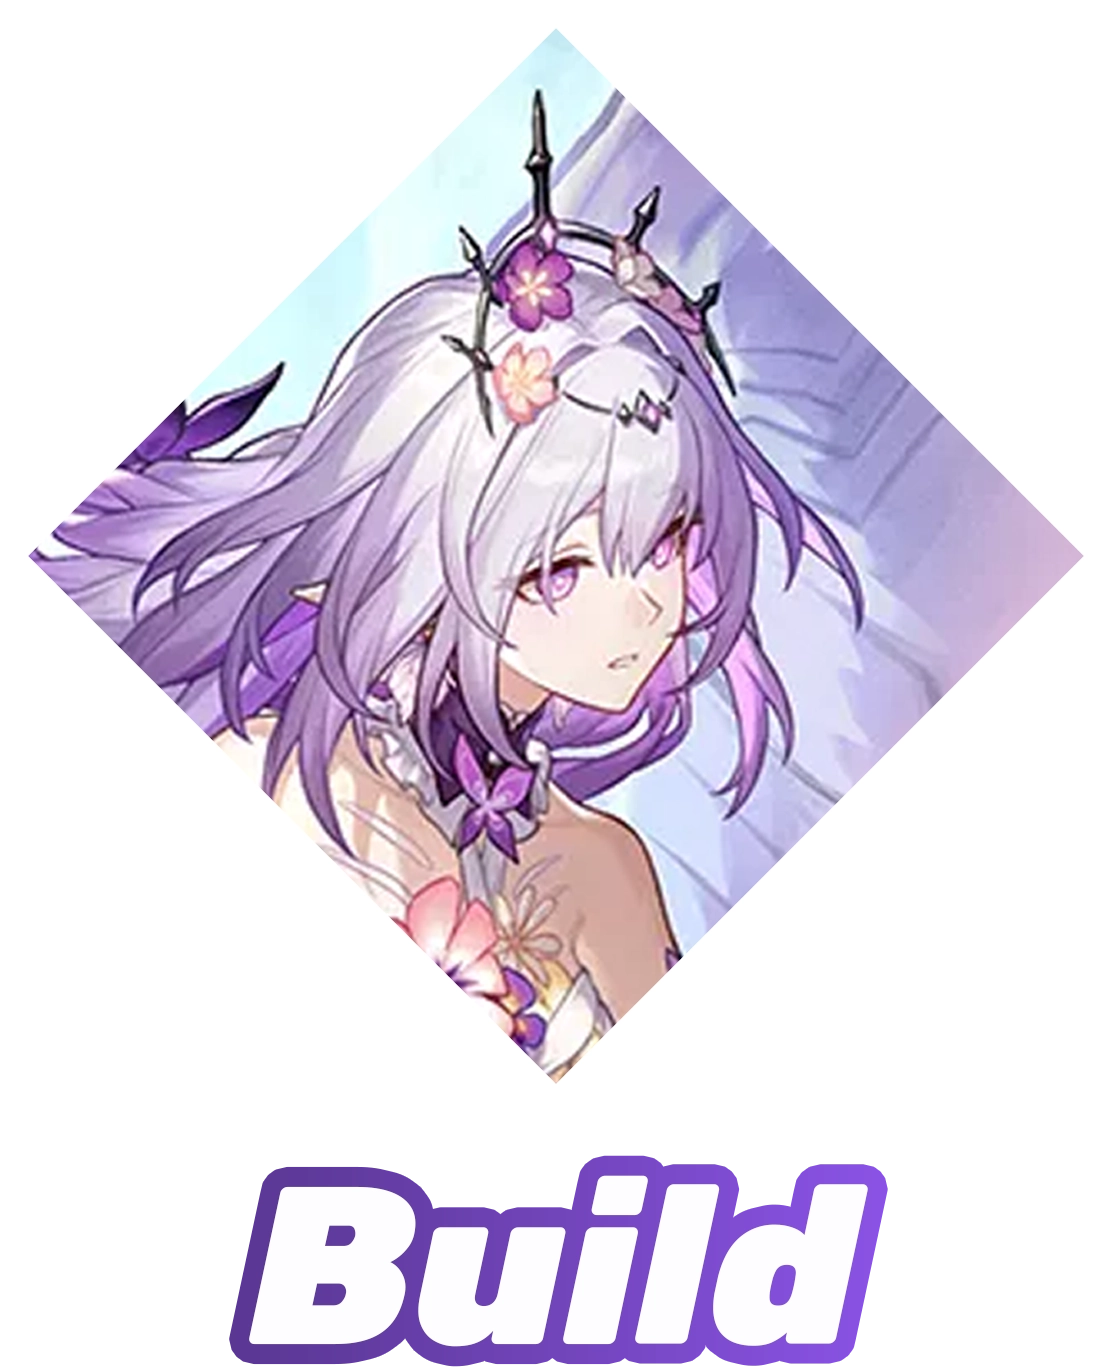
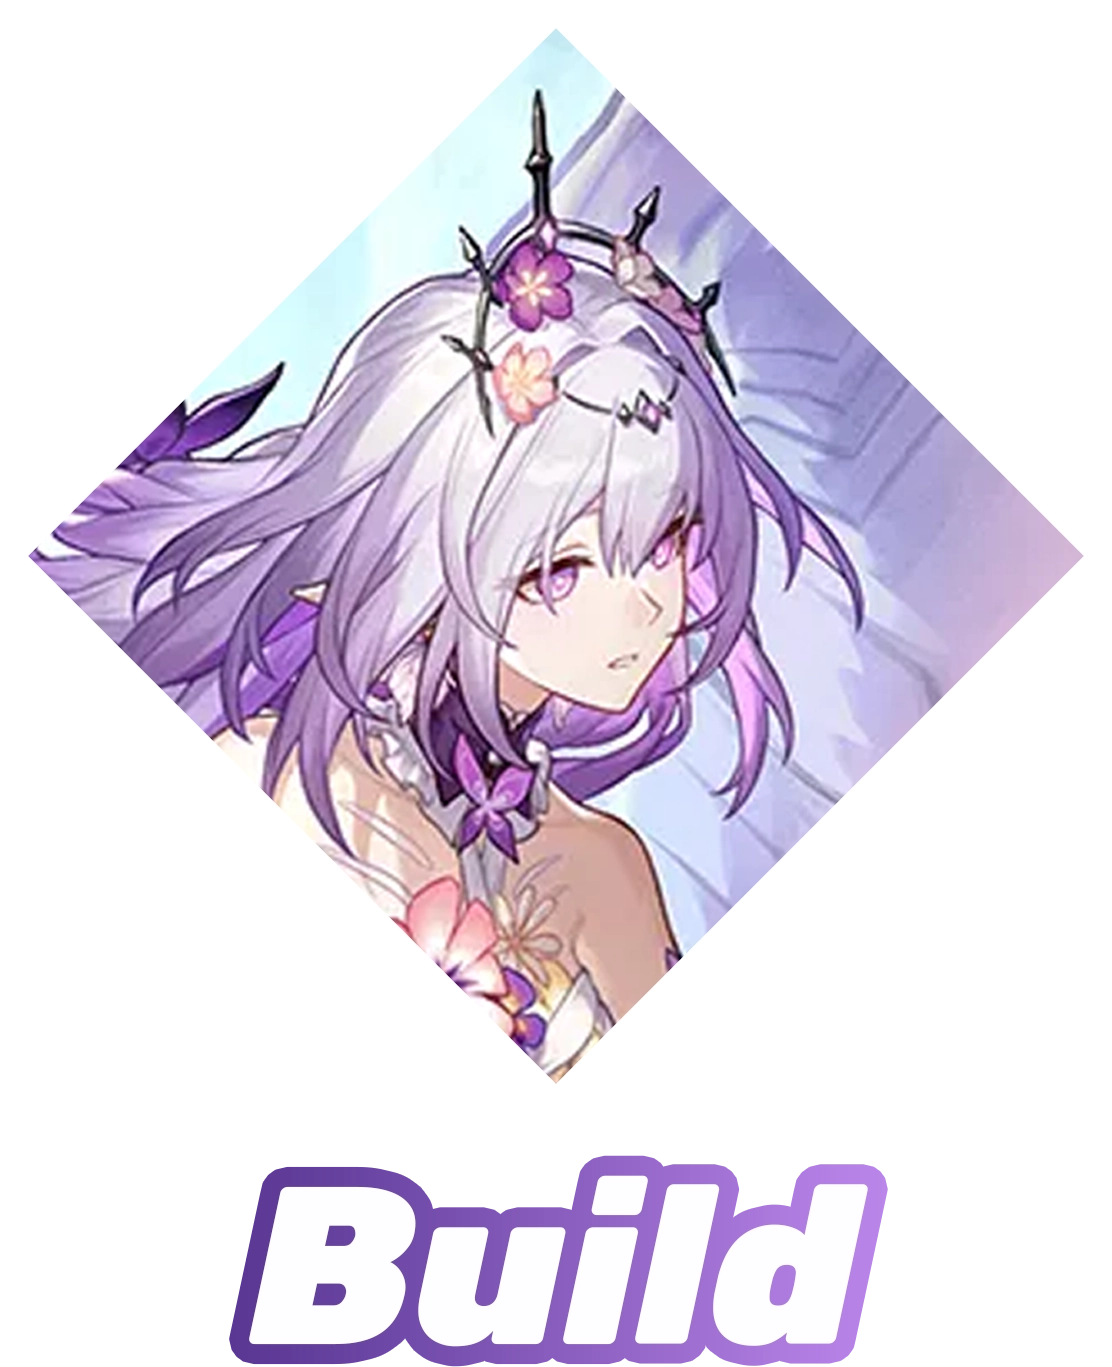
ajout de la vidéo youtube, du titre, d'un effet sur l'image build.

Changed region(s): [[0.4892, 0.8296, 0.795, 1.0]]

diff --git a/dist/css/theme.css b/dist/css/theme.css
@@ -1,1 +1,1 @@
-@layer reset{*,:after,:before{box-sizing:border-box}a,b,blockquote,body,canvas,caption,code,div,em,embed,fieldset,figure,footer,form,h1,h2,h3,h4,h5,h6,header,html,i,iframe,img,label,li,main,nav,object,ol,p,pre,section,small,span,strike,strong,sub,sup,table,tbody,td,tfoot,th,thead,tr,tt,u,ul,video{margin:0;padding:0;border:0;font:inherit;vertical-align:baseline;text-size-adjust:none}ol,ul{list-style:none}footer,header,main,nav,section{display:block}body{line-height:1}blockquote,q{quotes:none}blockquote:after,blockquote:before,q:after,q:before{content:none}table{border-collapse:collapse;border-spacing:0}input{-webkit-appearance:none;border-radius:0}}body{font-family:var(--font-family-base);background:linear-gradient(to bottom,#373f51 0,#373f51 40%,#5a3793 100%);background-attachment:fixed}:root{--text-color:#fdfdff;--background-dark:#1b1b1e;--background-light:#373F51;--color-castorice:#5a3793;--font-family-base:"Rubik", sans-serif;--font-size-title:24px;--font-size-subtitle:16px;--font-size-text:14px;--font-size-res:calc(0.01 * 10vmin)}#header{position:sticky;top:0;z-index:9}.header-background{background-color:var(--background-dark);box-shadow:rgba(0,0,0,.09) 0 2px 1px,rgba(0,0,0,.09) 0 4px 2px,rgba(0,0,0,.09) 0 8px 4px,rgba(0,0,0,.09) 0 16px 8px,rgba(0,0,0,.09) 0 32px 16px;padding:15px;width:100%}.header-container,.header-logo-container{display:flex;align-items:center;justify-content:space-between}.header-title img{height:25px;width:200px;margin-left:20px}.header-logo img{height:40px;width:40px}.header-container ul li{list-style:none;display:inline-block}.header-container ul li a{font-weight:700;text-decoration:none;color:var(--text-color);margin-right:25px;margin-left:25px;background-color:var(--background-light);border-radius:20px;padding:5px 10px}.header-hamburger-menu{display:none;align-items:center;width:40px;height:40px}.poster{position:relative;z-index:-1;height:100%;min-height:100%}.poster__bg,.poster__content{width:100%;height:100%;position:relative}.poster__bg img{position:absolute;width:100%}.poster__build,.poster__logo,.poster__text{position:relative;text-align:center;padding-top:2%}.poster__logo img{width:50%;min-width:150px}.poster__build,.poster__text{padding-top:10%;padding-left:40%}.poster__build img{width:30%;min-width:50px;max-width:500px;filter:drop-shadow(0 0 10px #000)}.poster__text{padding-left:10%;padding-right:10%}.container__text p,.poster__text p{font-weight:700;font-style:italic;color:var(--text-color)}.poster__text p{font-size:60px;font-family:var(--font-family-base);filter:drop-shadow(0 0 20px #000);-webkit-text-stroke-width:20px;-webkit-text-stroke-color:var(--background-dark);paint-order:stroke fill}.container{margin-top:15%;padding:20px}.container__text p{font-size:30px;text-align:center}@media (max-width:480px){.header-title img{display:none}}@media (max-width:1200px){.header-container ul li{display:none}.header-hamburger-menu{display:flex}}@media (max-width:1740px){.poster__text p{font-size:50px;-webkit-text-stroke-width:17px}}@media (max-width:1450px){.poster__text p{font-size:40px;-webkit-text-stroke-width:15px}}@media (max-width:1160px){.poster__text p{font-size:30px;-webkit-text-stroke-width:12px}}@media (max-width:870px){.poster__text p{font-size:20px;-webkit-text-stroke-width:10px}}@media (max-width:580px){.poster__text p{font-size:15px;-webkit-text-stroke-width:7px}}@media (max-width:435px){.poster__text p{font-size:10px;-webkit-text-stroke-width:5px}}
+@layer reset{*,:after,:before{box-sizing:border-box}a,b,blockquote,body,canvas,caption,code,div,em,embed,fieldset,figure,footer,form,h1,h2,h3,h4,h5,h6,header,html,i,iframe,img,label,li,main,nav,object,ol,p,pre,section,small,span,strike,strong,sub,sup,table,tbody,td,tfoot,th,thead,tr,tt,u,ul,video{margin:0;padding:0;border:0;font:inherit;vertical-align:baseline;text-size-adjust:none}ol,ul{list-style:none}footer,header,main,nav,section{display:block}body{line-height:1}blockquote,q{quotes:none}blockquote:after,blockquote:before,q:after,q:before{content:none}table{border-collapse:collapse;border-spacing:0}input{-webkit-appearance:none;border-radius:0}}body{font-family:var(--font-family-base);background:linear-gradient(to bottom,#373f51 0%,#373f51 40%,var(--color-castorice) 100%);background-attachment:fixed}:root{--text-color:#fdfdff;--background-dark:#1b1b1e;--background-light:#373F51;--color-castorice:#5a3793;--color-castorice-light:#bb85ea;--font-family-base:"Rubik", sans-serif;--font-size-title:24px;--font-size-subtitle:16px;--font-size-text:14px;--font-size-res:calc(0.01 * 10vmin)}#header{position:sticky;top:0;z-index:9}.header-background{background-color:var(--background-dark);box-shadow:rgba(0,0,0,.09) 0 2px 1px,rgba(0,0,0,.09) 0 4px 2px,rgba(0,0,0,.09) 0 8px 4px,rgba(0,0,0,.09) 0 16px 8px,rgba(0,0,0,.09) 0 32px 16px;padding:15px;width:100%}.header-container,.header-logo-container{display:flex;align-items:center;justify-content:space-between}.header-title img{height:25px;width:200px;margin-left:20px}.header-logo img{height:40px;width:40px}.header-container ul li{list-style:none;display:inline-block}.header-container ul li a{font-weight:700;text-decoration:none;color:var(--text-color);margin-right:25px;margin-left:25px;background-color:var(--background-light);border-radius:20px;padding:5px 10px}.header-hamburger-menu{display:none;align-items:center;width:40px;height:40px}.poster{position:relative;height:100%;min-height:100%}.poster__bg,.poster__content{width:100%;height:100%;position:relative}.poster__bg img{position:absolute;width:100%}.poster__build,.poster__logo,.poster__text{position:relative;text-align:center;padding-top:2%}.poster__logo img{width:50%;min-width:150px}.poster__build,.poster__text{padding-top:10%;padding-left:40%}.poster__build img{width:30%;min-width:50px;max-width:500px;filter:drop-shadow(0 0 10px #000);transition:500ms}.poster__build img:hover{transform:scale(1.3) rotate(3deg);filter:drop-shadow(0 0 25px var(--color-castorice-light))}.poster__text{padding-left:10%;padding-right:10%}.container h1,.poster__text p{font-family:var(--font-family-base);color:var(--text-color);font-weight:700;font-style:italic;filter:drop-shadow(0 0 20px #000)}.poster__text p{font-size:60px;-webkit-text-stroke-width:20px;-webkit-text-stroke-color:var(--background-dark);paint-order:stroke fill}.poster__text p span{color:var(--color-castorice-light)}.container{margin-top:5%;padding:2%}.container__title{padding:2%;background:linear-gradient(to right,transparent,var(--color-castorice),var(--color-castorice-light),var(--color-castorice),transparent)}.container h1{text-align:center;font-size:clamp(1rem,5vw,10rem)}.container__video{display:flex;justify-content:center;align-items:center;margin-top:4%}.container__video iframe{width:70%;height:70%;aspect-ratio:16/9;border:10px solid var(--color-castorice-light);filter:drop-shadow(0 0 20px #000)}@media (max-width:480px){.header-title img{display:none}}@media (max-width:1200px){.header-container ul li{display:none}.header-hamburger-menu{display:flex}}@media (max-width:1740px){.poster__text p{font-size:50px;-webkit-text-stroke-width:17px}}@media (max-width:1450px){.poster__text p{font-size:40px;-webkit-text-stroke-width:15px}}@media (max-width:1160px){.poster__text p{font-size:30px;-webkit-text-stroke-width:12px}}@media (max-width:870px){.poster__text p{font-size:20px;-webkit-text-stroke-width:10px}}@media (max-width:580px){.poster__text p{font-size:15px;-webkit-text-stroke-width:7px}}@media (max-width:435px){.poster__text p{font-size:10px;-webkit-text-stroke-width:5px}}

diff --git a/index.html b/index.html
@@ -28,7 +28,7 @@
                         </div>
                     </div>
                         <ul>
-                            <li><a href="#" title=Guides>Guides</a></li>
+                            <li><a href="#" title=Builds>Builds</a></li>
                             <li><a href="#" title="Tier-List">Tier List</a></li>
                             <li><a href="#" title="Patch-Note">Patch Note</a></li>
                             <li><a href="#" title="Encyclopedia">Encyclopedia</a></li>
@@ -55,14 +55,19 @@
                         <img src="images/characters-builds/Castorice-build.webp" alt="Link to see Castorice build">
                     </div>
                     <div class="poster__text">
-                        <p>Castorice, heir of Chrysos, seeks "Death" in Aidonia—guardian of souls, bound by cold fate.</p>
+                        <p><span class="character-name"> Castorice</span> , heir of Chrysos, seeks "Death" in Aidonia—guardian of souls, bound by cold fate.</p>
                     </div>
                 </div>
             </div>
 
             <div class="container">
+                <div class="container__title">
+                    <h1>Vidéo officielle :</h1>
+                </div>
+                <div class="container__video">
+                    <iframe width="560" height="315" src="https://www.youtube.com/embed/0FPvfC8g6-Q?si=UisSYkuAgxmLd3_S" title="YouTube video player" frameborder="0" allow="accelerometer; autoplay; clipboard-write; encrypted-media; gyroscope; picture-in-picture; web-share" referrerpolicy="strict-origin-when-cross-origin" allowfullscreen></iframe>
+                </div>
             </div>
-            </div>
-    </div>
+    </div>           
     </body>
 </html>

diff --git a/assets/styles/components/_container.scss b/assets/styles/components/_container.scss
@@ -1,12 +1,37 @@
 .container {
-    margin-top: 15%;
-    padding: 20px;
+    margin-top: 5%;
+    padding: 2%;
 
-        &__text p {
-            font-size: 30px;
-            text-align: center;
-            font-weight: bold;
-            font-style: italic;
-            color: var(--text-color);
+    &__title {
+        padding: 2%;
+        background: linear-gradient(to right, transparent, var(--color-castorice), var(--color-castorice-light), var(--color-castorice), transparent);
+    }
+    
+    h1 {
+        text-align: center;
+        font-size: clamp(1rem, 5vw, 10rem);
+        font-family: var(--font-family-base);
+        color: var(--text-color);
+        font-weight: bold;
+        font-style: italic;
+        filter: drop-shadow(0px 0px 20px black);
+
+        @media (max-width: 1530px) {
         }
+    }
+
+    &__video {
+        display: flex;
+        justify-content: center;
+        align-items: center;
+        margin-top: 4%;
+
+        iframe {
+            width: 70%;
+            height: 70%;
+            aspect-ratio: 16 / 9;
+            border: 10px solid var(--color-castorice-light);
+            filter: drop-shadow(0px 0px 20px black);
+        }
+    }
 }

diff --git a/assets/styles/components/_poster.scss b/assets/styles/components/_poster.scss
@@ -1,6 +1,5 @@
 .poster {
     position: relative;
-    z-index: -1;
     height: 100%;
     min-height: 100%;
     // overflow: hidden;
@@ -40,13 +39,18 @@
         text-align: center;
         padding-top: 10%;
         padding-left: 40%;
-        
 
         img {
             width: 30%;
             min-width: 50px;
             max-width: 500px;
             filter: drop-shadow(0px 0px 10px black);
+            transition: 500ms;
+
+            &:hover {
+                transform: scale(1.3) rotate(3deg);
+                filter: drop-shadow(0px 0px 25px var(--color-castorice-light));
+            }
         }
     }   
     
@@ -67,6 +71,10 @@
             -webkit-text-stroke-width: 20px;
             -webkit-text-stroke-color: var(--background-dark);
             paint-order: stroke fill;
+
+            span {
+                color: var(--color-castorice-light);
+            }
 
 
             @media (max-width: 1740px) {

diff --git a/assets/styles/elements/_document.scss b/assets/styles/elements/_document.scss
@@ -1,5 +1,6 @@
 body {
     font-family: var(--font-family-base);
-    background: linear-gradient(to bottom, #373F51 0%, #373F51  40%, #5a3793 100%);
+    background: linear-gradient(to bottom, #373F51 0%, #373F51  40%, var(--color-castorice) 100%);
     background-attachment: fixed;
 }
+

diff --git a/assets/styles/settings/_config.colors.scss b/assets/styles/settings/_config.colors.scss
@@ -6,4 +6,5 @@
 
     /* Characters */
     --color-castorice: #5a3793;
+    --color-castorice-light: #bb85ea;
 }
